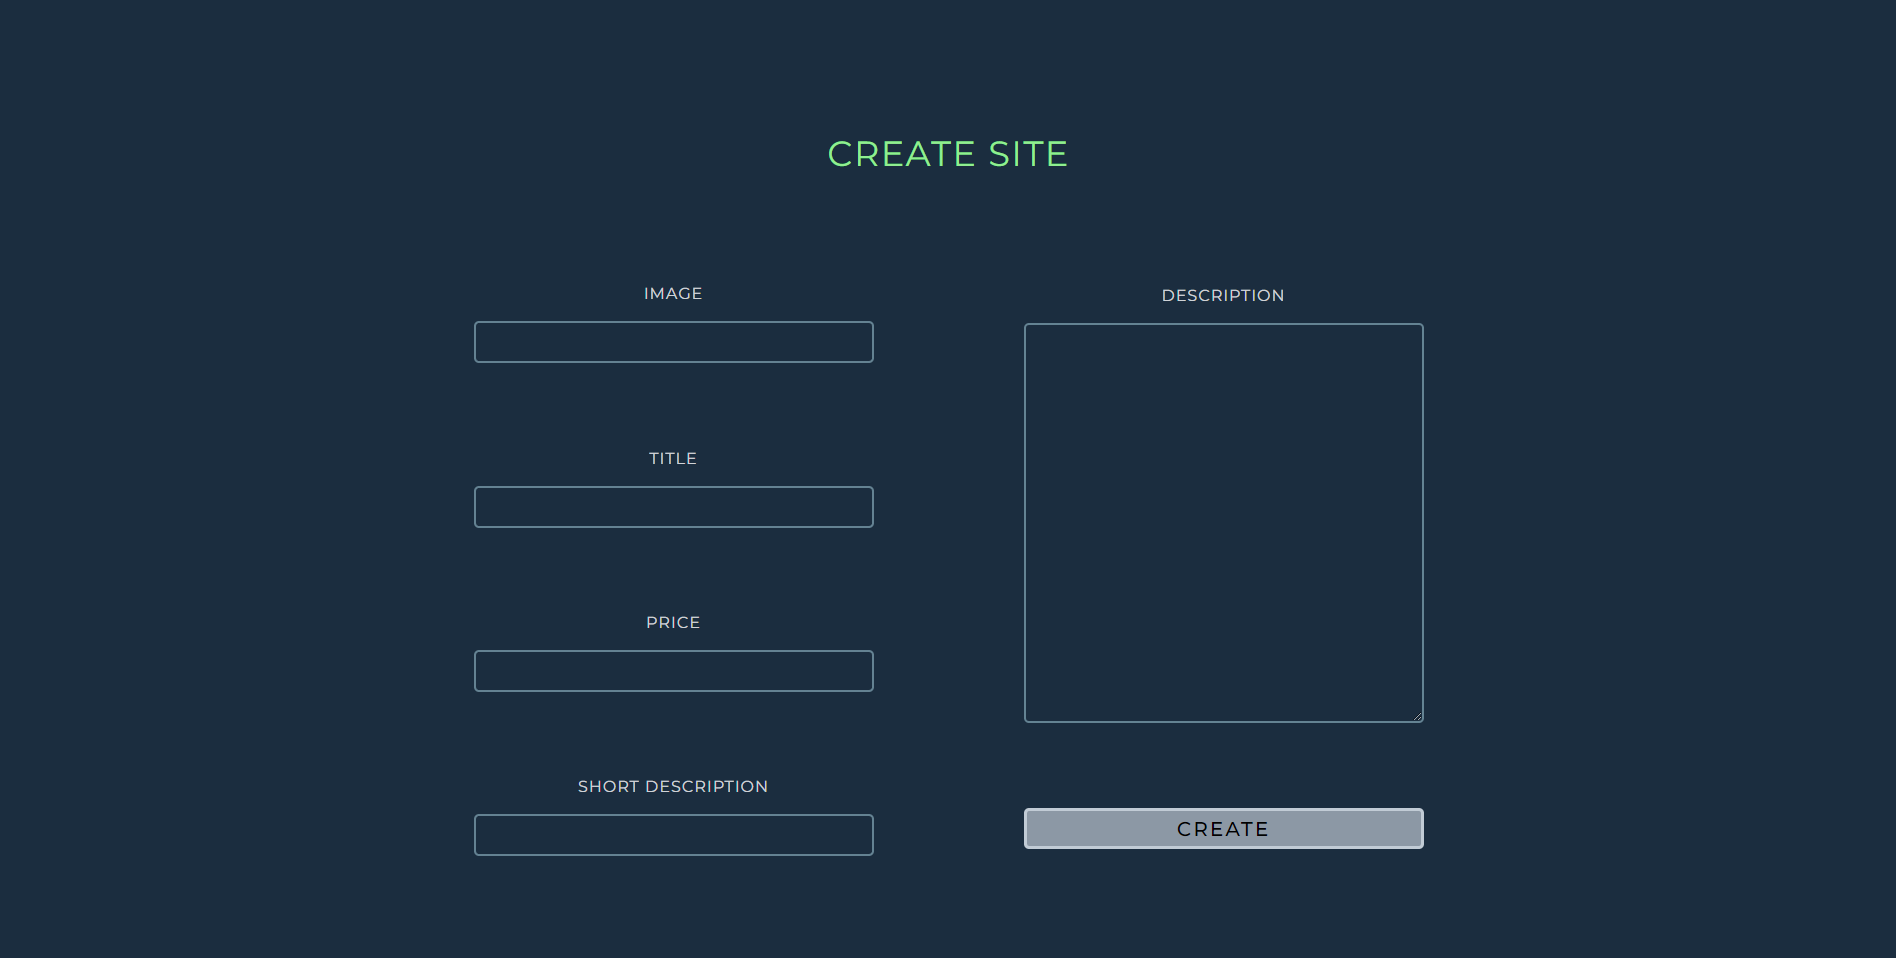
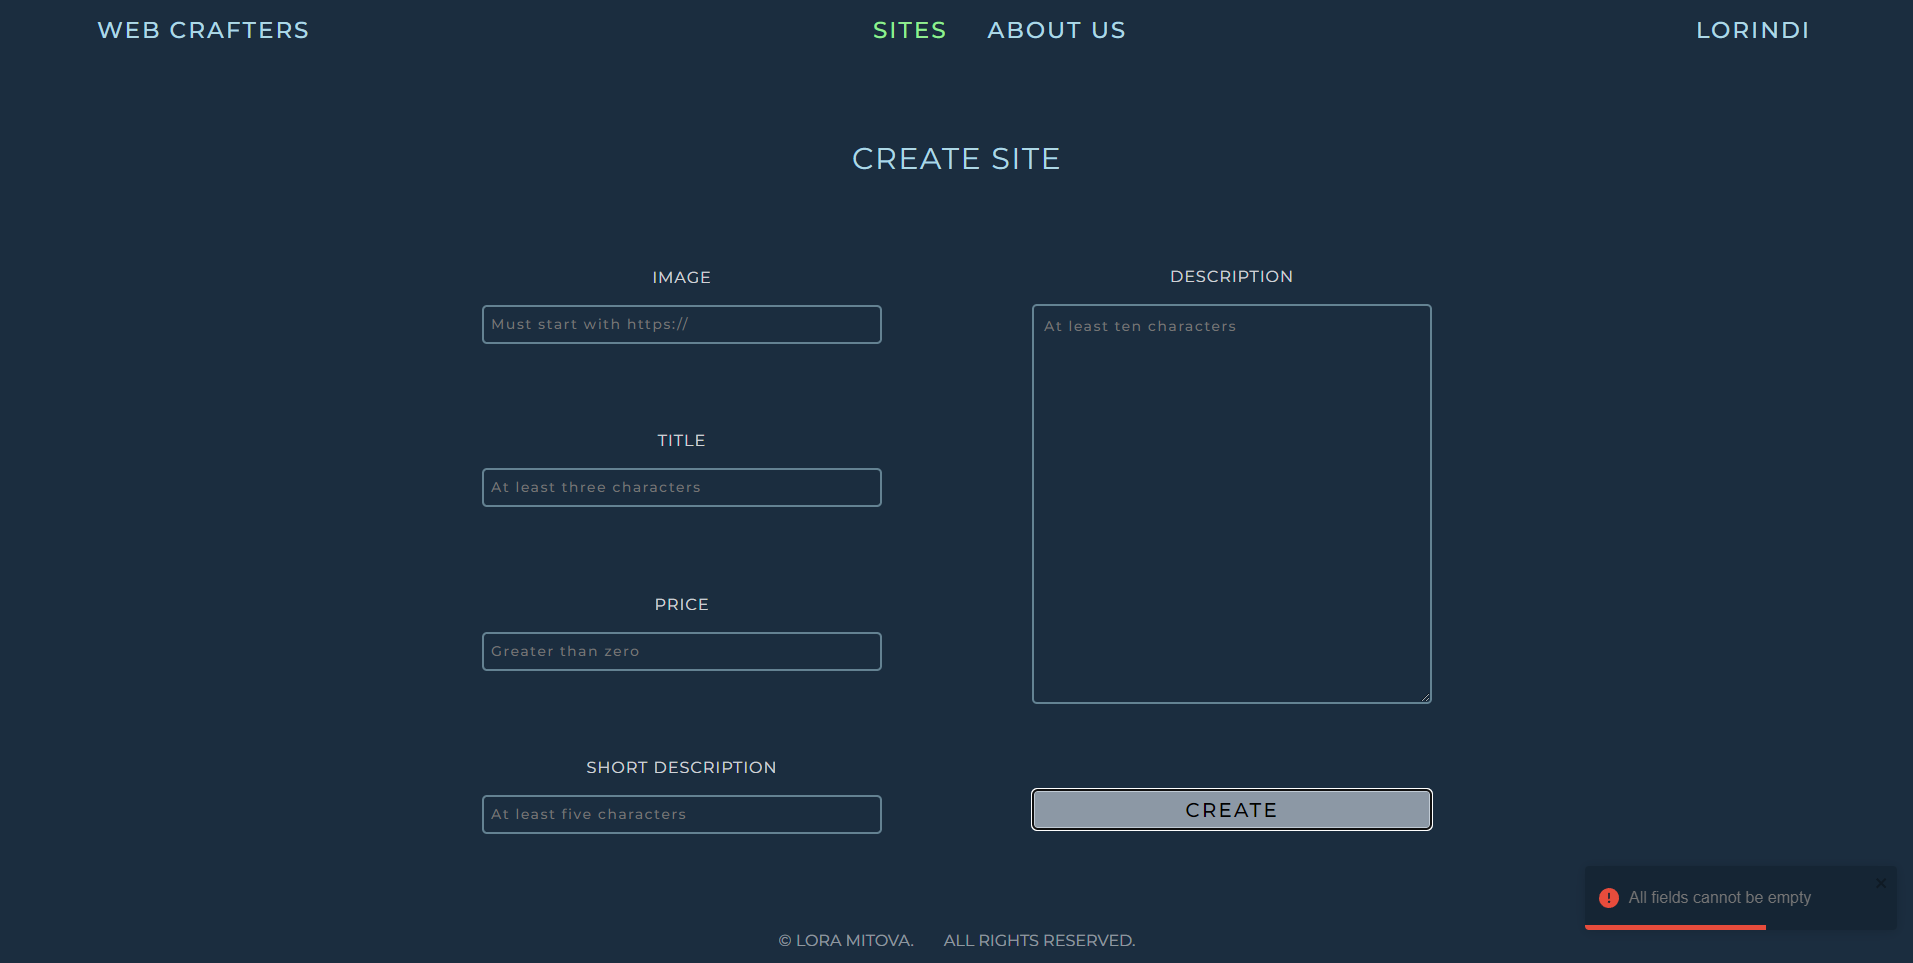
Add files via upload

diff --git a/TheWizardOfWebsites/frontend/src/components/Application/Edit/Edit.module.css b/TheWizardOfWebsites/frontend/src/components/Application/Edit/Edit.module.css
@@ -8,10 +8,18 @@
     display: flex;
     flex-direction: column;
     align-items: center;
-    justify-content: center;
-    height: 88vh;
+    justify-content: space-evenly;
+    height: 90vh;
     font-family: 'Montserrat', sans-serif;
 
+}
+h1 {
+    margin-top: 70px;
+    color: lightblue;
+    font-weight: 400;
+    font-size: 30px;
+    letter-spacing: 1.5px;
+    text-transform: uppercase;
 }
 .editForm {
     display: flex;
@@ -20,8 +28,7 @@
     justify-content: space-evenly;
     align-items: center;
     height: 700px;
-    min-width: 900px;
-    /* border: 1px solid lightblue; */
+    width: 1100px;
     position: relative;
     border-radius: 5px;
 }
@@ -29,47 +36,58 @@
     display: flex;
     flex-direction: column;
     justify-content: center;
-    min-width: 300px;
+    width: 500px;
     align-items: center;
-    margin: 5px 50px;
-    /* height: 100px; */
 
 }
-
+.editForm>div:nth-child(5) {
+    margin-bottom: 20px;
+  
+  }
 .editSiteLabel {
+    display: flex;
+    flex-direction: column;
+    align-items: center;
+    justify-content: center;
     color: rgba(255, 255, 255, 0.791);
     text-transform: uppercase;
     font-size: 16px;
     letter-spacing: 1px;
-    margin-bottom: 10px;
+    margin-bottom: 15px;
+    margin-top: 20px;
 
 
 }
 .editSiteInput {
+    padding: 7px;
     width: 400px;
     border-radius: 5px;
     background-color: #1B2D3F;
     border: 2px solid rgba(173, 216, 230, 0.498);
-    color: white;
+    color: rgba(173, 216, 230, 0.807);
     letter-spacing: 1.5px;
-    padding: 10px;
+    margin-bottom: 20px;
+    font-size: 14px;
+    font-weight: 500;
 
 }
 .editSiteTextarea {
     width: 400px;
-    height: 420px;
+    height: 400px;
     border-radius: 5px;
     background-color: #1B2D3F;
     border: 2px solid rgba(173, 216, 230, 0.498);
-    color: white;
+    color: rgba(173, 216, 230, 0.807);
     letter-spacing: 1.5px;
     padding: 10px;
+    font-size: 14px;
+    font-weight: 500;
 
 }
 .editSiteButton {
     display: block;
     width: 400px;
-    height: 40px;
+    height: 41px;
     letter-spacing: 2px;
     text-transform: uppercase;
     font-weight: 500;
@@ -77,6 +95,8 @@
     border: 3px solid rgba(240, 248, 255, 0.531);
     background-color: rgba(240, 248, 255, 0.531);
     border-radius: 5px;
+    margin: 20px 0px 25px 0px;
+
 
 
 }

diff --git a/TheWizardOfWebsites/frontend/src/components/Application/Create/Create.jsx b/TheWizardOfWebsites/frontend/src/components/Application/Create/Create.jsx
@@ -16,38 +16,62 @@ export const Create = () => {
     );
 
     if (isEmpty) {
-      toast.error("All fields cannot be empty");
+      toast.error("All fields cannot be empty", {
+        style: {
+          background: "#152534", 
+        },
+      });
       return;
     }
 
     // Проверка за image
     if (!siteData.image.startsWith("https://")) {
-      toast.error("Image URL should start with 'https://'");
+      toast.error("Image URL should start with 'https://'", {
+        style: {
+          background: "#152534", 
+        },
+      });
       return;
     }
 
     // Проверка за title
     if (siteData.title.length < 3) {
-      toast.error("Title should be at least 3 characters long");
+      toast.error("Title should be at least 3 characters long", {
+        style: {
+          background: "#152534", 
+        },
+      });
       return;
     }
 
     // Проверка за price
     const parsedPrice = parseFloat(siteData.price);
     if (isNaN(parsedPrice) || parsedPrice <= 0) {
-      toast.error("Price should be a number greater than 0");
+      toast.error("Price should be a number greater than 0", {
+        style: {
+          background: "#152534", 
+        },
+      });
       return;
     }
 
     // Проверка за shortDescription
     if (siteData.shortDescription.length < 5) {
-      toast.error("Short description should be at least 5 characters long");
+      toast.error("Short description should be at least 5 characters long", {
+        style: {
+          background: "#152534",
+        },
+      });
       return;
     }
 
     // Проверка за description
     if (siteData.description.length < 10) {
-      toast.error("Description should be at least 10 characters long");
+      toast.error("Description should be at least 10 characters long", {
+        style: {
+          background: "#152534",
+        },
+      });
       return;
     }
 

diff --git a/TheWizardOfWebsites/frontend/src/components/Application/Edit/Edit.jsx b/TheWizardOfWebsites/frontend/src/components/Application/Edit/Edit.jsx
@@ -27,32 +27,52 @@ export const Edit = () => {
 
     // Проверка за image
     if (!values.image.startsWith("https://")) {
-      toast.error("Image URL should start with 'https://'");
+      toast.error("Image URL should start with 'https://'", {
+        style: {
+          background: "#152534", 
+        },
+      });
       return;
     }
 
     // Проверка за title
     if (values.title.length < 3) {
-      toast.error("Title should be at least 3 characters long");
+      toast.error("Title should be at least 3 characters long", {
+        style: {
+          background: "#152534", 
+        },
+      });
       return;
     }
 
     // Проверка за price
     const parsedPrice = parseFloat(values.price);
     if (isNaN(parsedPrice) || parsedPrice <= 0) {
-      toast.error("Price should be a number greater than 0");
+      toast.error("Price should be a number greater than 0", {
+        style: {
+          background: "#152534", 
+        },
+      });
       return;
     }
 
     // Проверка за shortDescription
     if (values.shortDescription.length < 5) {
-      toast.error("Short description should be at least 5 characters long");
+      toast.error("Short description should be at least 5 characters long", {
+        style: {
+          background: "#152534", 
+        },
+      });
       return;
     }
 
     // Проверка за description
     if (values.description.length < 10) {
-      toast.error("Description should be at least 10 characters long");
+      toast.error("Description should be at least 10 characters long", {
+        style: {
+          background: "#152534", 
+        },
+      });
       return;
     }
 
@@ -72,6 +92,7 @@ export const Edit = () => {
 
   return (
     <div className={styles.containerEditForm}>
+    <h1>Edit Site</h1>
       <form
         onSubmit={editSiteSubmitHandler}
         className={styles.editForm}

diff --git a/TheWizardOfWebsites/frontend/src/components/Application/Create/Create.module.css b/TheWizardOfWebsites/frontend/src/components/Application/Create/Create.module.css
@@ -9,15 +9,15 @@
     flex-direction: column;
     align-items: center;
     justify-content: space-evenly;
-    height: 100vh;
+    height: 90vh;
     font-family: 'Montserrat', sans-serif;
 
 }
 h1 {
     margin-top: 70px;
-    color: lightgreen;
+    color: lightblue;
     font-weight: 400;
-    font-size: 35px;
+    font-size: 30px;
     letter-spacing: 1.5px;
     text-transform: uppercase;
 }
@@ -64,10 +64,11 @@ h1 {
     border-radius: 5px;
     background-color: #1B2D3F;
     border: 2px solid rgba(173, 216, 230, 0.498);
-    color: white;
+    color: rgba(173, 216, 230, 0.807);
     letter-spacing: 1.5px;
     margin-bottom: 20px;
-
+    font-size: 14px;
+    font-weight: 500;
 }
 .createSiteTextarea {
     width: 400px;
@@ -75,9 +76,11 @@ h1 {
     border-radius: 5px;
     background-color: #1B2D3F;
     border: 2px solid rgba(173, 216, 230, 0.498);
-    color: white;
+    color: rgba(173, 216, 230, 0.807);
     letter-spacing: 1.5px;
     padding: 10px;
+    font-size: 14px;
+    font-weight: 500;
     /* margin-bottom: 10px; */
 
 }

diff --git a/TheWizardOfWebsites/server/server.js b/TheWizardOfWebsites/server/server.js
@@ -1320,7 +1320,7 @@
     var protectedData = {
     	users: {
     		"35c62d76-8152-4626-8712-eeb96381bea8": {
-    			email: "lorindi@abv.bg",
+    			email: "loramitova9@gmail.com",
     			username: "Lora",
[1 lines of base64/hex data omitted]
     		},

diff --git a/TheWizardOfWebsites/README.md b/TheWizardOfWebsites/README.md
@@ -85,6 +85,12 @@ Project Screenshots:
 <br/>
 <br/>
 
+# EDIT SITE
+<p align="center"><img src="./frontend/public/images/Readme/EditSite.png"  width="1000" height="540/"></p>
+<br/>
+<br/>
+<br/>
+
 # SITES
 <p align="center"><img src="./frontend/public/images/Readme/Sites.png"  width="1000" height="540/"></p>
 <br/>
